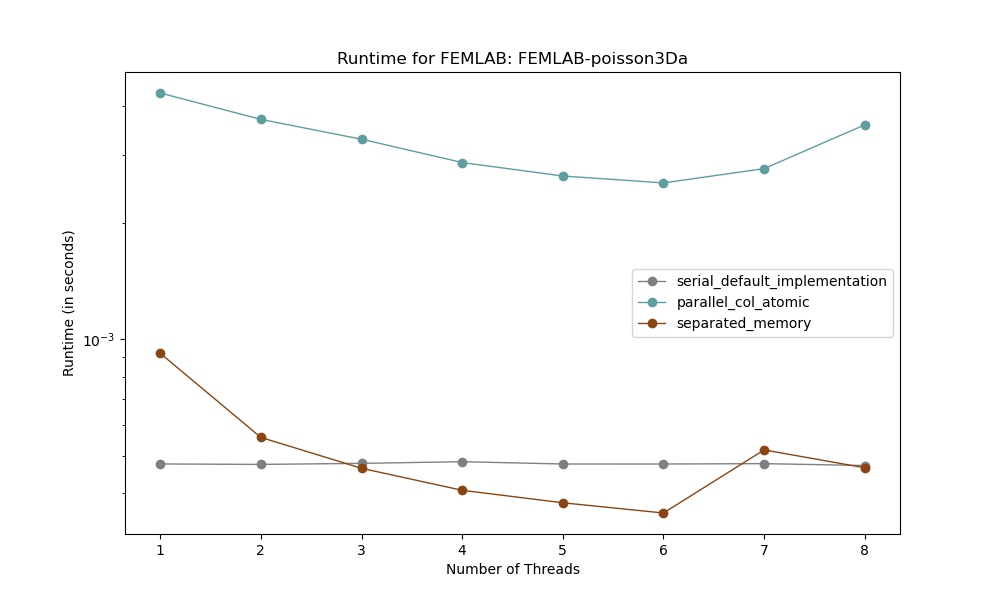
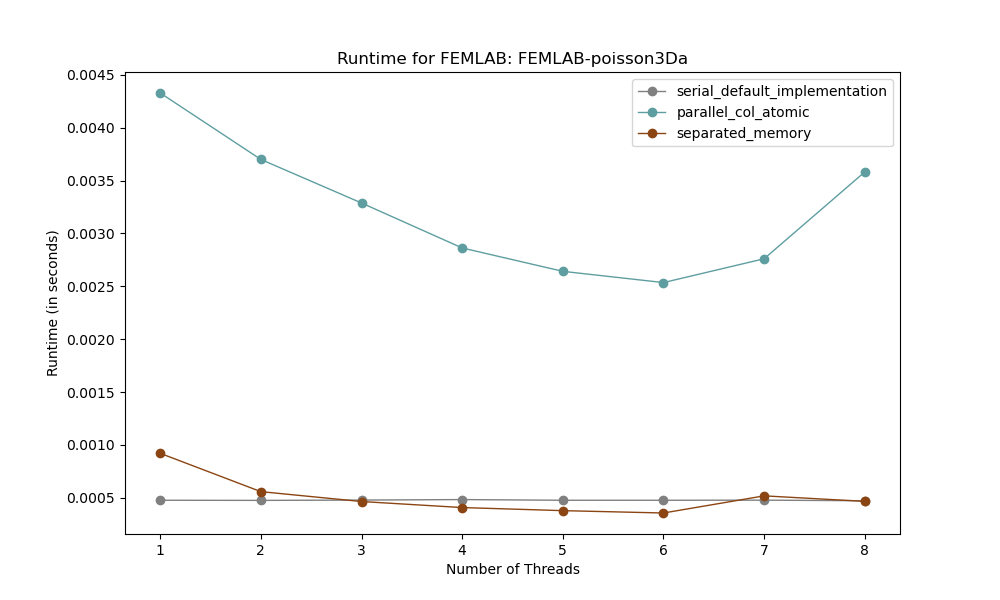
Plot result; remove log scale

diff --git a/parallel/spmv/graph.py b/parallel/spmv/graph.py
@@ -66,7 +66,7 @@ def plot_speedup_result(results, dataset, matrix, save_location):
         )
 
     plt.title(f"Speedup for {dataset}: {matrix} (with respect to {DEFAULT_METHOD})")
-    plt.yscale("log", base=10)
+    # plt.yscale("log", base=10)
     plt.xticks(NTHREADS)
     plt.xlabel("Number of Threads")
     plt.ylabel(f"Speedup")
@@ -89,7 +89,7 @@ def plot_runtime_result(results, dataset, matrix, save_location):
         )
 
     plt.title(f"Runtime for {dataset}: {matrix}")
-    plt.yscale("log", base=10)
+    # plt.yscale("log", base=10)
     plt.xticks(NTHREADS)
     plt.xlabel("Number of Threads")
     plt.ylabel(f"Runtime (in seconds)")
